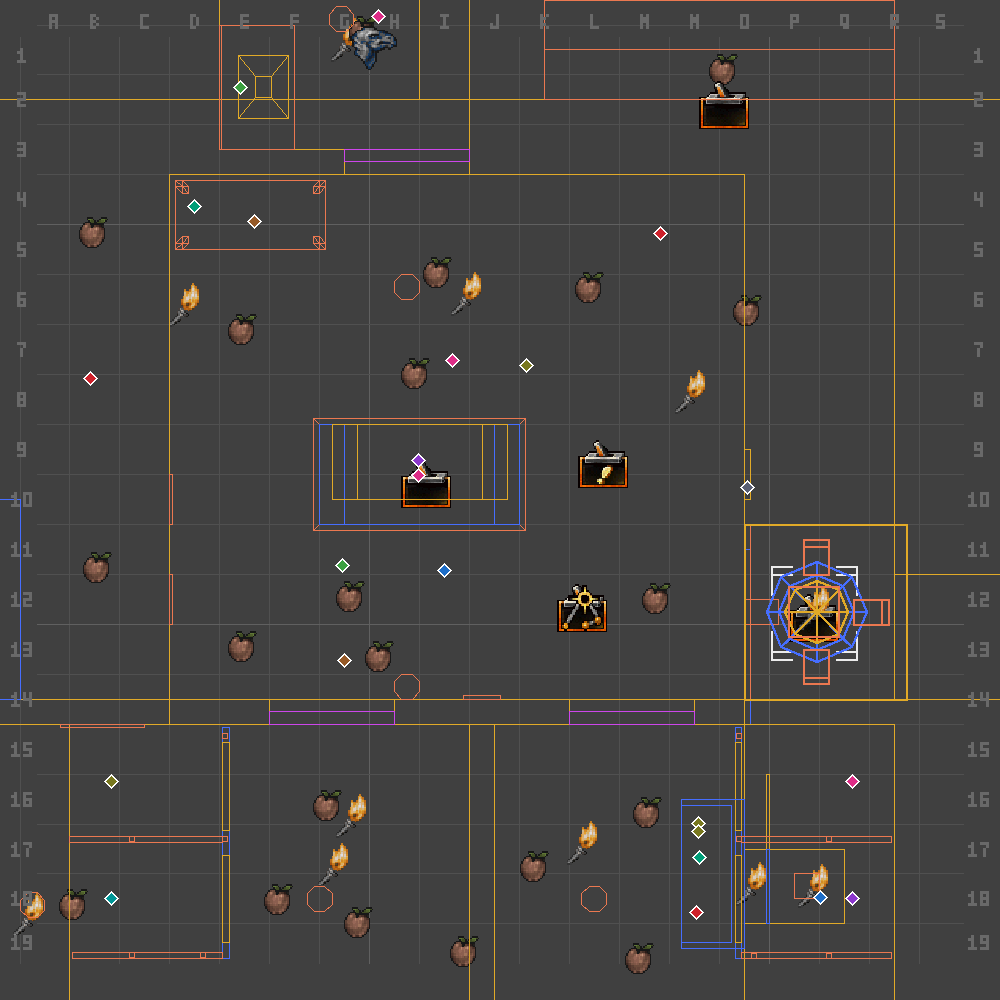
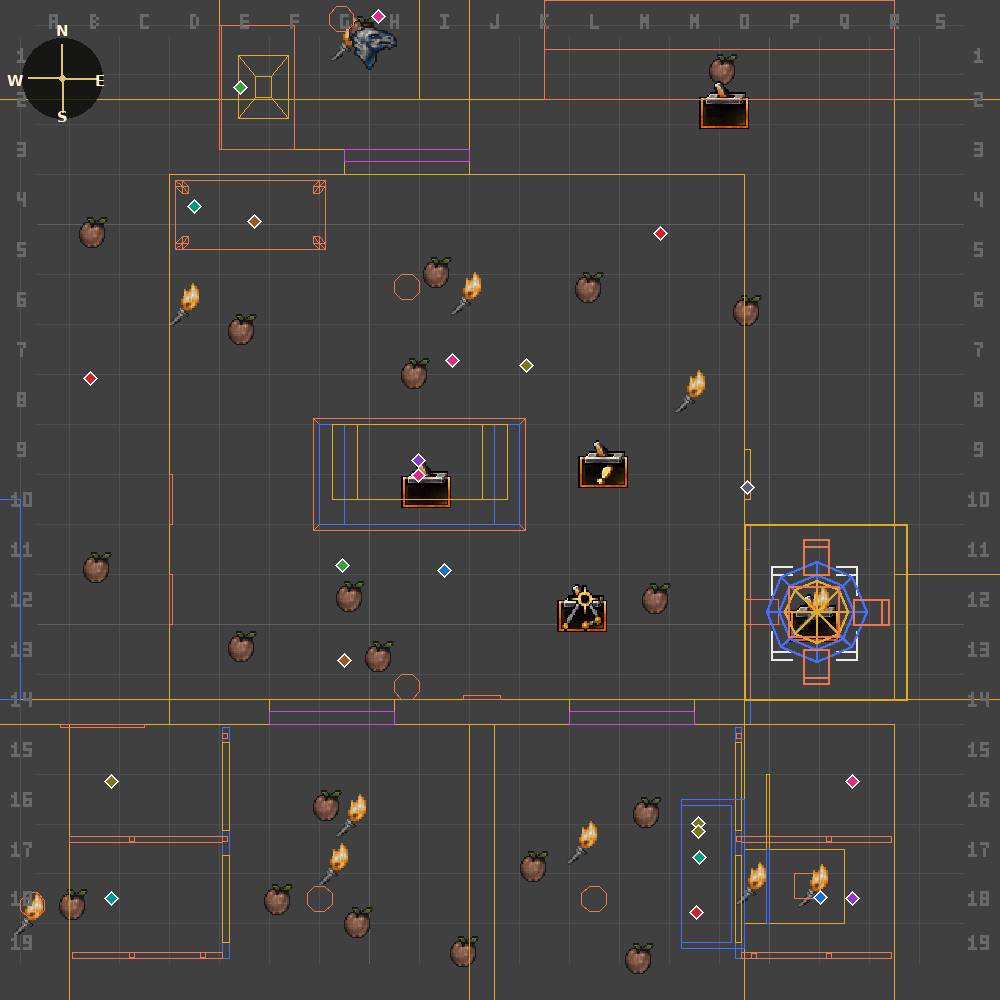
geom-eval reference: burn a compass into top-down plans, drop dup befores
Nothing on the top-down plans indicated orientation, so "east wall"
was unverifiable from the picture alone. Burn a small N/E/S/W compass
into every top-view diagram (matches UnrealEd's own axis convention,
documented in dev/docs/unrealed/rendering.md: TOP +X->right = East).
Also drop each scenario's redundant "before" image now that the
task-level Before block already covers it once.

Claude-Session: https://claude.ai/code/session_01DCf9MUpJC6Q3B9FVw6Uxdg

Changed region(s): [[0.0, 0.031, 0.124, 0.124]]

diff --git a/dev/docs/spikes/2026-09-08-geometry-alignment-eval-reference/index.html b/dev/docs/spikes/2026-09-08-geometry-alignment-eval-reference/index.html
@@ -16,6 +16,7 @@ h1,h2,h3{font-family:var(--disp);font-weight:600;text-wrap:balance;letter-spacin
 .lede{font-size:clamp(26px,4vw,40px);line-height:1.08;margin:0 0 16px;letter-spacing:-.01em}
 .sub{color:var(--dim);max-width:70ch;font-size:16.5px;margin:0}
 .legend{display:flex;flex-wrap:wrap;gap:16px;margin:22px 0 0;font-family:var(--mono);font-size:12.5px;color:var(--dim)}
+.orient{font-size:13.5px;color:var(--dim);margin:14px 0 0;padding:10px 14px;border:1px solid var(--line);border-left:3px solid var(--cyan);background:var(--panel2);border-radius:2px}
 
 .taskblk{margin:28px 0 0;border:1px solid var(--line);border-radius:6px;overflow:hidden;background:var(--panel)}
 .taskhead{width:100%;text-align:left;background:var(--panel2);border:0;border-bottom:1px solid var(--line);padding:16px 20px;
@@ -75,6 +76,7 @@ code{font-family:var(--mono);font-size:.9em;background:var(--panel2);padding:1px
     <span><span class="lbl okv">CORRECT</span> the right outcome for this aspect</span>
     <span><span class="lbl badv">INCORRECT</span> a documented failure mode</span>
   </div>
+  <p class="orient">Orientation, top-down plans (matching UnrealEd's own axis convention): <b>East = right</b> edge of the image, <b>West = left</b>, <b>North = up</b>, <b>South = down</b>. A small compass is burned into the top-left corner of every plan below as a direct check — it's not just asserted here, look for it on the image.</p>
   <div class="taskblk">
       <button class="taskhead" onclick="toggleTask(this)">
         <span class="tchev">&#9656;</span><h2>Task 1 — Widen the office</h2>
@@ -91,7 +93,7 @@ code{font-family:var(--mono);font-size:.9em;background:var(--panel2);padding:1px
       <button class="scenhead" onclick="toggleScen(this)">
         <span class="chev">&#9656;</span><span class="stitle">East wall (both halves of the room)</span>
       </button>
-      <div class="scenbody" hidden><div class="staterow"><div class="statehead"><span class="lbl okv">CORRECT</span><p class="snote">The office is built from two wall volumes sharing one wall. Both must move out together, or the wall gets a step in it.</p></div><div class="carousel"><img class="cthumb" src="img/v4_before_top.png" alt="Before: the shared east wall, flat, at x=448." loading="lazy" tabindex="0" onclick="openLB('t1_wall',0)" onkeydown="if(event.key==='Enter')openLB('t1_wall',0)"><img class="cthumb" src="img/v9_t1_wall.png" alt="Correct: both halves of the wall (Brush418 south, Brush420 north) moved out together to x=496 — still one flat wall." loading="lazy" tabindex="0" onclick="openLB('t1_wall',1)" onkeydown="if(event.key==='Enter')openLB('t1_wall',1)"></div></div><div class="staterow"><div class="statehead"><span class="lbl badv">INCORRECT</span><p class="snote">Only the south half of the wall was widened; the north half was left in its old spot.</p></div><div class="carousel"><img class="cthumb" src="img/v8_t1_wall_bad.png" alt="Incorrect: the south half of the wall (Brush418) moved to x=496, but the north half (Brush420) was left at x=448 — a visible step where they used to line up." loading="lazy" tabindex="0" onclick="openLB('t1_wall',2)" onkeydown="if(event.key==='Enter')openLB('t1_wall',2)"></div></div></div></div><div class="scen">
+      <div class="scenbody" hidden><div class="staterow"><div class="statehead"><span class="lbl okv">CORRECT</span><p class="snote">The office is built from two wall volumes sharing one wall. Both must move out together, or the wall gets a step in it.</p></div><div class="carousel"><img class="cthumb" src="img/v9_t1_wall.png" alt="Correct: both halves of the wall (Brush418 south, Brush420 north) moved out together to x=496 — still one flat wall." loading="lazy" tabindex="0" onclick="openLB('t1_wall',0)" onkeydown="if(event.key==='Enter')openLB('t1_wall',0)"></div></div><div class="staterow"><div class="statehead"><span class="lbl badv">INCORRECT</span><p class="snote">Only the south half of the wall was widened; the north half was left in its old spot.</p></div><div class="carousel"><img class="cthumb" src="img/v8_t1_wall_bad.png" alt="Incorrect: the south half of the wall (Brush418) moved to x=496, but the north half (Brush420) was left at x=448 — a visible step where they used to line up." loading="lazy" tabindex="0" onclick="openLB('t1_wall',1)" onkeydown="if(event.key==='Enter')openLB('t1_wall',1)"></div></div></div></div><div class="scen">
       <button class="scenhead" onclick="toggleScen(this)">
         <span class="chev">&#9656;</span><span class="stitle">Wall-mounted fixtures (switch, trim, pilaster)</span>
       </button>
@@ -99,15 +101,15 @@ code{font-family:var(--mono);font-size:.9em;background:var(--panel2);padding:1px
       <button class="scenhead" onclick="toggleScen(this)">
         <span class="chev">&#9656;</span><span class="stitle">Trophy shelf with a hidden wall safe</span>
       </button>
-      <div class="scenbody" hidden><div class="staterow"><div class="statehead"><span class="lbl okv">CORRECT</span><p class="snote">A wall-mounted display shelf has a real hidden safe built into its back. The whole unit and its contents must move together.</p></div><div class="carousel"><img class="cthumb" src="img/v7photo_safe_before.png" alt="Before: the trophy shelf — a vase, a polished rock, a closed book, and a nanokey on display." loading="lazy" tabindex="0" onclick="openLB('t1_safe',0)" onkeydown="if(event.key==='Enter')openLB('t1_safe',0)"><img class="cthumb" src="img/v7photo_safe_fixed.png" alt="Correct: the whole shelf unit, including the hidden safe built into its back, moved out together with the wall — nothing looks different except its new position." loading="lazy" tabindex="0" onclick="openLB('t1_safe',1)" onkeydown="if(event.key==='Enter')openLB('t1_safe',1)"><img class="cthumb" src="img/v7photo_safe_side.png" alt="Side view showing the shelf is a real wooden cabinet built into the wall, with actual depth — not a flat decoration." loading="lazy" tabindex="0" onclick="openLB('t1_safe',2)" onkeydown="if(event.key==='Enter')openLB('t1_safe',2)"><img class="cthumb" src="img/v7photo_safe_behind.png" alt="The space directly behind the safe: a sealed, empty dead-end. There's nothing else back there to worry about disturbing." loading="lazy" tabindex="0" onclick="openLB('t1_safe',3)" onkeydown="if(event.key==='Enter')openLB('t1_safe',3)"><img class="cthumb" src="img/v9_t1_safe.png" alt="Top-down plan with the whole shelf-and-safe unit highlighted: the wall cavity it sits in (Brush766), the safe's own back panel and shelf (Brush364, Brush873, Brush592), its light (Light149), and the vase, rock, book and nanokey on display." loading="lazy" tabindex="0" onclick="openLB('t1_safe',4)" onkeydown="if(event.key==='Enter')openLB('t1_safe',4)"></div></div><div class="staterow"><div class="statehead"><span class="lbl badv">INCORRECT</span><p class="snote">The wall cavity moved with the wall, but the safe's own back panel and shelf inside it — a separate piece of geometry — were left behind.</p></div><div class="carousel"><img class="cthumb" src="img/v7photo_safe_broken.png" alt="Incorrect: the safe's back panel is left floating in the middle of the room — it didn't move with the cavity around it, so it now sits stranded in open space." loading="lazy" tabindex="0" onclick="openLB('t1_safe',5)" onkeydown="if(event.key==='Enter')openLB('t1_safe',5)"><img class="cthumb" src="img/v8_t1_safe_bad.png" alt="Top-down plan of the same bug: the wall cavity (Brush766) moved with the wall, but the safe's own back panel and shelf (Brush364, Brush873, Brush592) were left behind at the old position." loading="lazy" tabindex="0" onclick="openLB('t1_safe',6)" onkeydown="if(event.key==='Enter')openLB('t1_safe',6)"></div></div></div></div><div class="scen">
+      <div class="scenbody" hidden><div class="staterow"><div class="statehead"><span class="lbl okv">CORRECT</span><p class="snote">A wall-mounted display shelf has a real hidden safe built into its back. The whole unit and its contents must move together.</p></div><div class="carousel"><img class="cthumb" src="img/v7photo_safe_fixed.png" alt="Correct: the whole shelf unit, including the hidden safe built into its back, moved out together with the wall — nothing looks different except its new position." loading="lazy" tabindex="0" onclick="openLB('t1_safe',0)" onkeydown="if(event.key==='Enter')openLB('t1_safe',0)"><img class="cthumb" src="img/v7photo_safe_side.png" alt="Side view showing the shelf is a real wooden cabinet built into the wall, with actual depth — not a flat decoration." loading="lazy" tabindex="0" onclick="openLB('t1_safe',1)" onkeydown="if(event.key==='Enter')openLB('t1_safe',1)"><img class="cthumb" src="img/v7photo_safe_behind.png" alt="The space directly behind the safe: a sealed, empty dead-end. There's nothing else back there to worry about disturbing." loading="lazy" tabindex="0" onclick="openLB('t1_safe',2)" onkeydown="if(event.key==='Enter')openLB('t1_safe',2)"><img class="cthumb" src="img/v9_t1_safe.png" alt="Top-down plan with the whole shelf-and-safe unit highlighted: the wall cavity it sits in (Brush766), the safe's own back panel and shelf (Brush364, Brush873, Brush592), its light (Light149), and the vase, rock, book and nanokey on display." loading="lazy" tabindex="0" onclick="openLB('t1_safe',3)" onkeydown="if(event.key==='Enter')openLB('t1_safe',3)"></div></div><div class="staterow"><div class="statehead"><span class="lbl badv">INCORRECT</span><p class="snote">The wall cavity moved with the wall, but the safe's own back panel and shelf inside it — a separate piece of geometry — were left behind.</p></div><div class="carousel"><img class="cthumb" src="img/v7photo_safe_broken.png" alt="Incorrect: the safe's back panel is left floating in the middle of the room — it didn't move with the cavity around it, so it now sits stranded in open space." loading="lazy" tabindex="0" onclick="openLB('t1_safe',4)" onkeydown="if(event.key==='Enter')openLB('t1_safe',4)"><img class="cthumb" src="img/v8_t1_safe_bad.png" alt="Top-down plan of the same bug: the wall cavity (Brush766) moved with the wall, but the safe's own back panel and shelf (Brush364, Brush873, Brush592) were left behind at the old position." loading="lazy" tabindex="0" onclick="openLB('t1_safe',5)" onkeydown="if(event.key==='Enter')openLB('t1_safe',5)"></div></div></div></div><div class="scen">
       <button class="scenhead" onclick="toggleScen(this)">
         <span class="chev">&#9656;</span><span class="stitle">Corner flagpoles</span>
       </button>
-      <div class="scenbody" hidden><div class="staterow"><div class="statehead"><span class="lbl okv">CORRECT</span><p class="snote">Two ceremonial flagpoles each stand a fixed distance from two adjacent walls, planted in the room's corners. Both must move to stay in their corners.</p></div><div class="carousel"><img class="cthumb" src="img/v7_t1_flags_before.png" alt="Before: the two flagpoles, each standing in a corner of the office (FlagPole3 in the north corner, FlagPole4 in the south corner)." loading="lazy" tabindex="0" onclick="openLB('t1_flags',0)" onkeydown="if(event.key==='Enter')openLB('t1_flags',0)"><img class="cthumb" src="img/v9_t1_flags_after.png" alt="Correct: both flagpoles moved out with the wall, so each still stands the same distance from its corner as before." loading="lazy" tabindex="0" onclick="openLB('t1_flags',1)" onkeydown="if(event.key==='Enter')openLB('t1_flags',1)"><img class="cthumb" src="img/v7photo_flags_after.png" alt="Photo confirming a flag sits flush back in its corner after the move." loading="lazy" tabindex="0" onclick="openLB('t1_flags',2)" onkeydown="if(event.key==='Enter')openLB('t1_flags',2)"></div></div><div class="staterow"><div class="statehead"><span class="lbl badv">INCORRECT</span><p class="snote">The wall moved, but the flagpoles were left in their old spot — now standing twice as far from the wall as they should.</p></div><div class="carousel"><img class="cthumb" src="img/v8_t1_flags_bad.png" alt="Incorrect: both flagpoles (FlagPole3, FlagPole4) were left at their old position — now stranded away from the corners they're meant to occupy." loading="lazy" tabindex="0" onclick="openLB('t1_flags',3)" onkeydown="if(event.key==='Enter')openLB('t1_flags',3)"></div></div></div></div><div class="scen">
+      <div class="scenbody" hidden><div class="staterow"><div class="statehead"><span class="lbl okv">CORRECT</span><p class="snote">Two ceremonial flagpoles each stand a fixed distance from two adjacent walls, planted in the room's corners. Both must move to stay in their corners.</p></div><div class="carousel"><img class="cthumb" src="img/v9_t1_flags_after.png" alt="Correct: both flagpoles moved out with the wall, so each still stands the same distance from its corner as before." loading="lazy" tabindex="0" onclick="openLB('t1_flags',0)" onkeydown="if(event.key==='Enter')openLB('t1_flags',0)"><img class="cthumb" src="img/v7photo_flags_after.png" alt="Photo confirming a flag sits flush back in its corner after the move." loading="lazy" tabindex="0" onclick="openLB('t1_flags',1)" onkeydown="if(event.key==='Enter')openLB('t1_flags',1)"></div></div><div class="staterow"><div class="statehead"><span class="lbl badv">INCORRECT</span><p class="snote">The wall moved, but the flagpoles were left in their old spot — now standing twice as far from the wall as they should.</p></div><div class="carousel"><img class="cthumb" src="img/v8_t1_flags_bad.png" alt="Incorrect: both flagpoles (FlagPole3, FlagPole4) were left at their old position — now stranded away from the corners they're meant to occupy." loading="lazy" tabindex="0" onclick="openLB('t1_flags',2)" onkeydown="if(event.key==='Enter')openLB('t1_flags',2)"></div></div></div></div><div class="scen">
       <button class="scenhead" onclick="toggleScen(this)">
         <span class="chev">&#9656;</span><span class="stitle">Display niche (a separate small room)</span>
       </button>
-      <div class="scenbody" hidden><div class="staterow"><div class="statehead"><span class="lbl okv">CORRECT</span><p class="snote">Unlike the shelf/safe above, this niche is a genuinely separate small room, not part of the wall itself. It must move so it stays flush against the wall.</p></div><div class="carousel"><img class="cthumb" src="img/v7_t1_niche_before.png" alt="Before: the display niche — a small separate room built against the office's east wall (brush Brush663 and the items inside it)." loading="lazy" tabindex="0" onclick="openLB('t1_niche',0)" onkeydown="if(event.key==='Enter')openLB('t1_niche',0)"><img class="cthumb" src="img/v7_t1_niche_moved.png" alt="Correct: the niche (Brush663 and its contents) moved out together with the office wall, so it still sits flush against it with no gap." loading="lazy" tabindex="0" onclick="openLB('t1_niche',1)" onkeydown="if(event.key==='Enter')openLB('t1_niche',1)"></div></div><div class="staterow"><div class="statehead"><span class="lbl badv">INCORRECT</span><p class="snote">The office wall moved outward, but the niche behind it was left in its old spot.</p></div><div class="carousel"><img class="cthumb" src="img/v7_t1_niche_notmoved.png" alt="Incorrect: the office wall moved to x=496, but the niche (Brush663) was left at its old position — the office and the niche now overlap, with no wall separating them." loading="lazy" tabindex="0" onclick="openLB('t1_niche',2)" onkeydown="if(event.key==='Enter')openLB('t1_niche',2)"></div></div></div></div>
+      <div class="scenbody" hidden><div class="staterow"><div class="statehead"><span class="lbl okv">CORRECT</span><p class="snote">Unlike the shelf/safe above, this niche is a genuinely separate small room, not part of the wall itself. It must move so it stays flush against the wall.</p></div><div class="carousel"><img class="cthumb" src="img/v7_t1_niche_moved.png" alt="Correct: the niche (Brush663 and its contents) moved out together with the office wall, so it still sits flush against it with no gap." loading="lazy" tabindex="0" onclick="openLB('t1_niche',0)" onkeydown="if(event.key==='Enter')openLB('t1_niche',0)"></div></div><div class="staterow"><div class="statehead"><span class="lbl badv">INCORRECT</span><p class="snote">The office wall moved outward, but the niche behind it was left in its old spot.</p></div><div class="carousel"><img class="cthumb" src="img/v7_t1_niche_notmoved.png" alt="Incorrect: the office wall moved to x=496, but the niche (Brush663) was left at its old position — the office and the niche now overlap, with no wall separating them." loading="lazy" tabindex="0" onclick="openLB('t1_niche',1)" onkeydown="if(event.key==='Enter')openLB('t1_niche',1)"></div></div></div></div>
       </div></div><div class="taskblk">
       <button class="taskhead" onclick="toggleTask(this)">
         <span class="tchev">&#9656;</span><h2>Task 2 — Raise the ceiling</h2>
@@ -124,7 +126,7 @@ code{font-family:var(--mono);font-size:.9em;background:var(--panel2);padding:1px
       <button class="scenhead" onclick="toggleScen(this)">
         <span class="chev">&#9656;</span><span class="stitle">Ceiling (both halves of the room)</span>
       </button>
-      <div class="scenbody" hidden><div class="staterow"><div class="statehead"><span class="lbl okv">CORRECT</span><p class="snote">Like the east wall, the ceiling spans two wall volumes sharing one surface. Both must rise together, or the ceiling gets a step in it.</p></div><div class="carousel"><img class="cthumb" src="img/v7_t2_ceil_before.png" alt="Before: the shared ceiling, flat, at z=416." loading="lazy" tabindex="0" onclick="openLB('t2_ceil',0)" onkeydown="if(event.key==='Enter')openLB('t2_ceil',0)"><img class="cthumb" src="img/v7_t2_ceil_after.png" alt="Correct: both halves of the ceiling (Brush418 south, Brush420 north) raised together to z=464 — still one flat ceiling." loading="lazy" tabindex="0" onclick="openLB('t2_ceil',1)" onkeydown="if(event.key==='Enter')openLB('t2_ceil',1)"></div></div><div class="staterow"><div class="statehead"><span class="lbl badv">INCORRECT</span><p class="snote">Only the south half of the ceiling was raised; the north half was left at its old height.</p></div><div class="carousel"><img class="cthumb" src="img/v8_t2_ceil_bad.png" alt="Incorrect: the south half of the ceiling (Brush418) raised to z=464, but the north half (Brush420) was left at z=416 — a step where they used to line up." loading="lazy" tabindex="0" onclick="openLB('t2_ceil',2)" onkeydown="if(event.key==='Enter')openLB('t2_ceil',2)"></div></div></div></div><div class="scen">
+      <div class="scenbody" hidden><div class="staterow"><div class="statehead"><span class="lbl okv">CORRECT</span><p class="snote">Like the east wall, the ceiling spans two wall volumes sharing one surface. Both must rise together, or the ceiling gets a step in it.</p></div><div class="carousel"><img class="cthumb" src="img/v7_t2_ceil_after.png" alt="Correct: both halves of the ceiling (Brush418 south, Brush420 north) raised together to z=464 — still one flat ceiling." loading="lazy" tabindex="0" onclick="openLB('t2_ceil',0)" onkeydown="if(event.key==='Enter')openLB('t2_ceil',0)"></div></div><div class="staterow"><div class="statehead"><span class="lbl badv">INCORRECT</span><p class="snote">Only the south half of the ceiling was raised; the north half was left at its old height.</p></div><div class="carousel"><img class="cthumb" src="img/v8_t2_ceil_bad.png" alt="Incorrect: the south half of the ceiling (Brush418) raised to z=464, but the north half (Brush420) was left at z=416 — a step where they used to line up." loading="lazy" tabindex="0" onclick="openLB('t2_ceil',1)" onkeydown="if(event.key==='Enter')openLB('t2_ceil',1)"></div></div></div></div><div class="scen">
       <button class="scenhead" onclick="toggleScen(this)">
         <span class="chev">&#9656;</span><span class="stitle">Ceiling-mounted fixtures (light panels, trim)</span>
       </button>
@@ -132,7 +134,7 @@ code{font-family:var(--mono);font-size:.9em;background:var(--panel2);padding:1px
       <button class="scenhead" onclick="toggleScen(this)">
         <span class="chev">&#9656;</span><span class="stitle">Niche ceiling</span>
       </button>
-      <div class="scenbody" hidden><div class="staterow"><div class="statehead"><span class="lbl okv">CORRECT</span><p class="snote">The niche is its own separate room with its own ceiling. It's fine — expected, even — for it to keep its own height and not match the office's new one.</p></div><div class="carousel"><img class="cthumb" src="img/v7_t2_niche_before.png" alt="Before: the niche and the main office share the same ceiling height." loading="lazy" tabindex="0" onclick="openLB('t2_niche',0)" onkeydown="if(event.key==='Enter')openLB('t2_niche',0)"><img class="cthumb" src="img/v7_t2_niche_after.png" alt="Correct (and intentional): the office's ceiling was raised, but the niche's own ceiling was deliberately left at its old height — the visible step where they meet is expected, since the niche is its own room, not a defect to fix." loading="lazy" tabindex="0" onclick="openLB('t2_niche',1)" onkeydown="if(event.key==='Enter')openLB('t2_niche',1)"><img class="cthumb" src="img/v6pan_C_0.png" alt="Photo, camera tilted upward — the height step at the boundary with the niche is visible in the top-right." loading="lazy" tabindex="0" onclick="openLB('t2_niche',2)" onkeydown="if(event.key==='Enter')openLB('t2_niche',2)"></div></div></div></div><div class="scen">
+      <div class="scenbody" hidden><div class="staterow"><div class="statehead"><span class="lbl okv">CORRECT</span><p class="snote">The niche is its own separate room with its own ceiling. It's fine — expected, even — for it to keep its own height and not match the office's new one.</p></div><div class="carousel"><img class="cthumb" src="img/v7_t2_niche_after.png" alt="Correct (and intentional): the office's ceiling was raised, but the niche's own ceiling was deliberately left at its old height — the visible step where they meet is expected, since the niche is its own room, not a defect to fix." loading="lazy" tabindex="0" onclick="openLB('t2_niche',0)" onkeydown="if(event.key==='Enter')openLB('t2_niche',0)"><img class="cthumb" src="img/v6pan_C_0.png" alt="Photo, camera tilted upward — the height step at the boundary with the niche is visible in the top-right." loading="lazy" tabindex="0" onclick="openLB('t2_niche',1)" onkeydown="if(event.key==='Enter')openLB('t2_niche',1)"></div></div></div></div><div class="scen">
       <button class="scenhead" onclick="toggleScen(this)">
         <span class="chev">&#9656;</span><span class="stitle">Overhead room lights</span>
       </button>
@@ -151,7 +153,7 @@ code{font-family:var(--mono);font-size:.9em;background:var(--panel2);padding:1px
 </div>
 
 <script>
-const CAROUSELS = {"t1__before": [{"src": "img/v4pan_before_0.png", "cap": "Panorama frame, before any edit."}, {"src": "img/v4pan_before_1.png", "cap": "Panorama frame, before any edit."}, {"src": "img/v4pan_before_2.png", "cap": "Panorama frame, before any edit."}, {"src": "img/v4pan_before_3.png", "cap": "Panorama frame, before any edit."}, {"src": "img/v4pan_before_4.png", "cap": "Panorama frame, before any edit."}, {"src": "img/v4pan_before_5.png", "cap": "Panorama frame, before any edit."}, {"src": "img/v4pan_before_6.png", "cap": "Panorama frame, before any edit."}, {"src": "img/v4pan_before_7.png", "cap": "Panorama frame, before any edit."}], "t1_wall": [{"src": "img/v4_before_top.png", "cap": "[CORRECT] Before: the shared east wall, flat, at x=448."}, {"src": "img/v9_t1_wall.png", "cap": "[CORRECT] Correct: both halves of the wall (Brush418 south, Brush420 north) moved out together to x=496 \u2014 still one flat wall."}, {"src": "img/v8_t1_wall_bad.png", "cap": "[INCORRECT] Incorrect: the south half of the wall (Brush418) moved to x=496, but the north half (Brush420) was left at x=448 \u2014 a visible step where they used to line up."}], "t1_fixtures": [{"src": "img/v9_t1_fixtures.png", "cap": "[CORRECT] Correct: the switch (Switch6) and its recess (Brush670), the corner trim boards (Brush161, Brush132, Brush203, Brush74), the pilaster (Brush869), and its light (Light14) all moved out with the wall."}, {"src": "img/v8_t1_fixtures_bad.png", "cap": "[INCORRECT] Incorrect: the same switch, trim boards and pilaster were left at the old wall position \u2014 now floating in open space where the wall used to be."}], "t1_safe": [{"src": "img/v7photo_safe_before.png", "cap": "[CORRECT] Before: the trophy shelf \u2014 a vase, a polished rock, a closed book, and a nanokey on display."}, {"src": "img/v7photo_safe_fixed.png", "cap": "[CORRECT] Correct: the whole shelf unit, including the hidden safe built into its back, moved out together with the wall \u2014 nothing looks different except its new position."}, {"src": "img/v7photo_safe_side.png", "cap": "[CORRECT] Side view showing the shelf is a real wooden cabinet built into the wall, with actual depth \u2014 not a flat decoration."}, {"src": "img/v7photo_safe_behind.png", "cap": "[CORRECT] The space directly behind the safe: a sealed, empty dead-end. There's nothing else back there to worry about disturbing."}, {"src": "img/v9_t1_safe.png", "cap": "[CORRECT] Top-down plan with the whole shelf-and-safe unit highlighted: the wall cavity it sits in (Brush766), the safe's own back panel and shelf (Brush364, Brush873, Brush592), its light (Light149), and the vase, rock, book and nanokey on display."}, {"src": "img/v7photo_safe_broken.png", "cap": "[INCORRECT] Incorrect: the safe's back panel is left floating in the middle of the room \u2014 it didn't move with the cavity around it, so it now sits stranded in open space."}, {"src": "img/v8_t1_safe_bad.png", "cap": "[INCORRECT] Top-down plan of the same bug: the wall cavity (Brush766) moved with the wall, but the safe's own back panel and shelf (Brush364, Brush873, Brush592) were left behind at the old position."}], "t1_flags": [{"src": "img/v7_t1_flags_before.png", "cap": "[CORRECT] Before: the two flagpoles, each standing in a corner of the office (FlagPole3 in the north corner, FlagPole4 in the south corner)."}, {"src": "img/v9_t1_flags_after.png", "cap": "[CORRECT] Correct: both flagpoles moved out with the wall, so each still stands the same distance from its corner as before."}, {"src": "img/v7photo_flags_after.png", "cap": "[CORRECT] Photo confirming a flag sits flush back in its corner after the move."}, {"src": "img/v8_t1_flags_bad.png", "cap": "[INCORRECT] Incorrect: both flagpoles (FlagPole3, FlagPole4) were left at their old position \u2014 now stranded away from the corners they're meant to occupy."}], "t1_niche": [{"src": "img/v7_t1_niche_before.png", "cap": "[CORRECT] Before: the display niche \u2014 a small separate room built against the office's east wall (brush Brush663 and the items inside it)."}, {"src": "img/v7_t1_niche_moved.png", "cap": "[CORRECT] Correct: the niche (Brush663 and its contents) moved out together with the office wall, so it still sits flush against it with no gap."}, {"src": "img/v7_t1_niche_notmoved.png", "cap": "[INCORRECT] Incorrect: the office wall moved to x=496, but the niche (Brush663) was left at its old position \u2014 the office and the niche now overlap, with no wall separating them."}], "t2__before": [{"src": "img/v6pan_beforeceil_0.png", "cap": "Panorama frame, before any edit."}, {"src": "img/v6pan_beforeceil_1.png", "cap": "Panorama frame, before any edit."}, {"src": "img/v6pan_beforeceil_2.png", "cap": "Panorama frame, before any edit."}, {"src": "img/v6pan_beforeceil_3.png", "cap": "Panorama frame, before any edit."}, {"src": "img/v6pan_beforeceil_4.png", "cap": "Panorama frame, before any edit."}, {"src": "img/v6pan_beforeceil_5.png", "cap": "Panorama frame, before any edit."}, {"src": "img/v6pan_beforeceil_6.png", "cap": "Panorama frame, before any edit."}, {"src": "img/v6pan_beforeceil_7.png", "cap": "Panorama frame, before any edit."}], "t2_ceil": [{"src": "img/v7_t2_ceil_before.png", "cap": "[CORRECT] Before: the shared ceiling, flat, at z=416."}, {"src": "img/v7_t2_ceil_after.png", "cap": "[CORRECT] Correct: both halves of the ceiling (Brush418 south, Brush420 north) raised together to z=464 \u2014 still one flat ceiling."}, {"src": "img/v8_t2_ceil_bad.png", "cap": "[INCORRECT] Incorrect: the south half of the ceiling (Brush418) raised to z=464, but the north half (Brush420) was left at z=416 \u2014 a step where they used to line up."}], "t2_fixtures": [{"src": "img/v7_t2_fixtures.png", "cap": "[CORRECT] Correct: the three light panels (Brush285, Brush295, Brush284) and two corner trim caps (Brush132, Brush74) all rose with the ceiling."}, {"src": "img/v6pan_C_0.png", "cap": "[CORRECT] Photo, camera tilted upward, showing the raised ceiling with one of the light panels visible."}, {"src": "img/v8_t2_fixtures_bad.png", "cap": "[INCORRECT] Incorrect: the same light panels and trim caps were left at the old ceiling height \u2014 now floating below the new, higher ceiling instead of set flush into it."}], "t2_niche": [{"src": "img/v7_t2_niche_before.png", "cap": "[CORRECT] Before: the niche and the main office share the same ceiling height."}, {"src": "img/v7_t2_niche_after.png", "cap": "[CORRECT] Correct (and intentional): the office's ceiling was raised, but the niche's own ceiling was deliberately left at its old height \u2014 the visible step where they meet is expected, since the niche is its own room, not a defect to fix."}, {"src": "img/v6pan_C_0.png", "cap": "[CORRECT] Photo, camera tilted upward \u2014 the height step at the boundary with the niche is visible in the top-right."}], "t2_lights": [{"src": "img/v7_t2_lights.png", "cap": "[CORRECT] Correct: the five ceiling light fixtures (Light156, Light103, Light318, Light86, Light120) were left exactly where they were \u2014 every light in the room already sits the same distance below its ceiling, so raising the ceiling doesn't call for moving them."}, {"src": "img/v8_t2_lights_bad.png", "cap": "[INCORRECT] Incorrect: the five ceiling lights were needlessly raised along with the ceiling, breaking the room's otherwise-consistent light-to-ceiling distance."}]};
+const CAROUSELS = {"t1__before": [{"src": "img/v4pan_before_0.png", "cap": "Panorama frame, before any edit."}, {"src": "img/v4pan_before_1.png", "cap": "Panorama frame, before any edit."}, {"src": "img/v4pan_before_2.png", "cap": "Panorama frame, before any edit."}, {"src": "img/v4pan_before_3.png", "cap": "Panorama frame, before any edit."}, {"src": "img/v4pan_before_4.png", "cap": "Panorama frame, before any edit."}, {"src": "img/v4pan_before_5.png", "cap": "Panorama frame, before any edit."}, {"src": "img/v4pan_before_6.png", "cap": "Panorama frame, before any edit."}, {"src": "img/v4pan_before_7.png", "cap": "Panorama frame, before any edit."}], "t1_wall": [{"src": "img/v9_t1_wall.png", "cap": "[CORRECT] Correct: both halves of the wall (Brush418 south, Brush420 north) moved out together to x=496 \u2014 still one flat wall."}, {"src": "img/v8_t1_wall_bad.png", "cap": "[INCORRECT] Incorrect: the south half of the wall (Brush418) moved to x=496, but the north half (Brush420) was left at x=448 \u2014 a visible step where they used to line up."}], "t1_fixtures": [{"src": "img/v9_t1_fixtures.png", "cap": "[CORRECT] Correct: the switch (Switch6) and its recess (Brush670), the corner trim boards (Brush161, Brush132, Brush203, Brush74), the pilaster (Brush869), and its light (Light14) all moved out with the wall."}, {"src": "img/v8_t1_fixtures_bad.png", "cap": "[INCORRECT] Incorrect: the same switch, trim boards and pilaster were left at the old wall position \u2014 now floating in open space where the wall used to be."}], "t1_safe": [{"src": "img/v7photo_safe_fixed.png", "cap": "[CORRECT] Correct: the whole shelf unit, including the hidden safe built into its back, moved out together with the wall \u2014 nothing looks different except its new position."}, {"src": "img/v7photo_safe_side.png", "cap": "[CORRECT] Side view showing the shelf is a real wooden cabinet built into the wall, with actual depth \u2014 not a flat decoration."}, {"src": "img/v7photo_safe_behind.png", "cap": "[CORRECT] The space directly behind the safe: a sealed, empty dead-end. There's nothing else back there to worry about disturbing."}, {"src": "img/v9_t1_safe.png", "cap": "[CORRECT] Top-down plan with the whole shelf-and-safe unit highlighted: the wall cavity it sits in (Brush766), the safe's own back panel and shelf (Brush364, Brush873, Brush592), its light (Light149), and the vase, rock, book and nanokey on display."}, {"src": "img/v7photo_safe_broken.png", "cap": "[INCORRECT] Incorrect: the safe's back panel is left floating in the middle of the room \u2014 it didn't move with the cavity around it, so it now sits stranded in open space."}, {"src": "img/v8_t1_safe_bad.png", "cap": "[INCORRECT] Top-down plan of the same bug: the wall cavity (Brush766) moved with the wall, but the safe's own back panel and shelf (Brush364, Brush873, Brush592) were left behind at the old position."}], "t1_flags": [{"src": "img/v9_t1_flags_after.png", "cap": "[CORRECT] Correct: both flagpoles moved out with the wall, so each still stands the same distance from its corner as before."}, {"src": "img/v7photo_flags_after.png", "cap": "[CORRECT] Photo confirming a flag sits flush back in its corner after the move."}, {"src": "img/v8_t1_flags_bad.png", "cap": "[INCORRECT] Incorrect: both flagpoles (FlagPole3, FlagPole4) were left at their old position \u2014 now stranded away from the corners they're meant to occupy."}], "t1_niche": [{"src": "img/v7_t1_niche_moved.png", "cap": "[CORRECT] Correct: the niche (Brush663 and its contents) moved out together with the office wall, so it still sits flush against it with no gap."}, {"src": "img/v7_t1_niche_notmoved.png", "cap": "[INCORRECT] Incorrect: the office wall moved to x=496, but the niche (Brush663) was left at its old position \u2014 the office and the niche now overlap, with no wall separating them."}], "t2__before": [{"src": "img/v6pan_beforeceil_0.png", "cap": "Panorama frame, before any edit."}, {"src": "img/v6pan_beforeceil_1.png", "cap": "Panorama frame, before any edit."}, {"src": "img/v6pan_beforeceil_2.png", "cap": "Panorama frame, before any edit."}, {"src": "img/v6pan_beforeceil_3.png", "cap": "Panorama frame, before any edit."}, {"src": "img/v6pan_beforeceil_4.png", "cap": "Panorama frame, before any edit."}, {"src": "img/v6pan_beforeceil_5.png", "cap": "Panorama frame, before any edit."}, {"src": "img/v6pan_beforeceil_6.png", "cap": "Panorama frame, before any edit."}, {"src": "img/v6pan_beforeceil_7.png", "cap": "Panorama frame, before any edit."}], "t2_ceil": [{"src": "img/v7_t2_ceil_after.png", "cap": "[CORRECT] Correct: both halves of the ceiling (Brush418 south, Brush420 north) raised together to z=464 \u2014 still one flat ceiling."}, {"src": "img/v8_t2_ceil_bad.png", "cap": "[INCORRECT] Incorrect: the south half of the ceiling (Brush418) raised to z=464, but the north half (Brush420) was left at z=416 \u2014 a step where they used to line up."}], "t2_fixtures": [{"src": "img/v7_t2_fixtures.png", "cap": "[CORRECT] Correct: the three light panels (Brush285, Brush295, Brush284) and two corner trim caps (Brush132, Brush74) all rose with the ceiling."}, {"src": "img/v6pan_C_0.png", "cap": "[CORRECT] Photo, camera tilted upward, showing the raised ceiling with one of the light panels visible."}, {"src": "img/v8_t2_fixtures_bad.png", "cap": "[INCORRECT] Incorrect: the same light panels and trim caps were left at the old ceiling height \u2014 now floating below the new, higher ceiling instead of set flush into it."}], "t2_niche": [{"src": "img/v7_t2_niche_after.png", "cap": "[CORRECT] Correct (and intentional): the office's ceiling was raised, but the niche's own ceiling was deliberately left at its old height \u2014 the visible step where they meet is expected, since the niche is its own room, not a defect to fix."}, {"src": "img/v6pan_C_0.png", "cap": "[CORRECT] Photo, camera tilted upward \u2014 the height step at the boundary with the niche is visible in the top-right."}], "t2_lights": [{"src": "img/v7_t2_lights.png", "cap": "[CORRECT] Correct: the five ceiling light fixtures (Light156, Light103, Light318, Light86, Light120) were left exactly where they were \u2014 every light in the room already sits the same distance below its ceiling, so raising the ceiling doesn't call for moving them."}, {"src": "img/v8_t2_lights_bad.png", "cap": "[INCORRECT] Incorrect: the five ceiling lights were needlessly raised along with the ceiling, breaking the room's otherwise-consistent light-to-ceiling distance."}]};
 let lbScen = null, lbIdx = 0;
 
 function toggleTask(btn){
